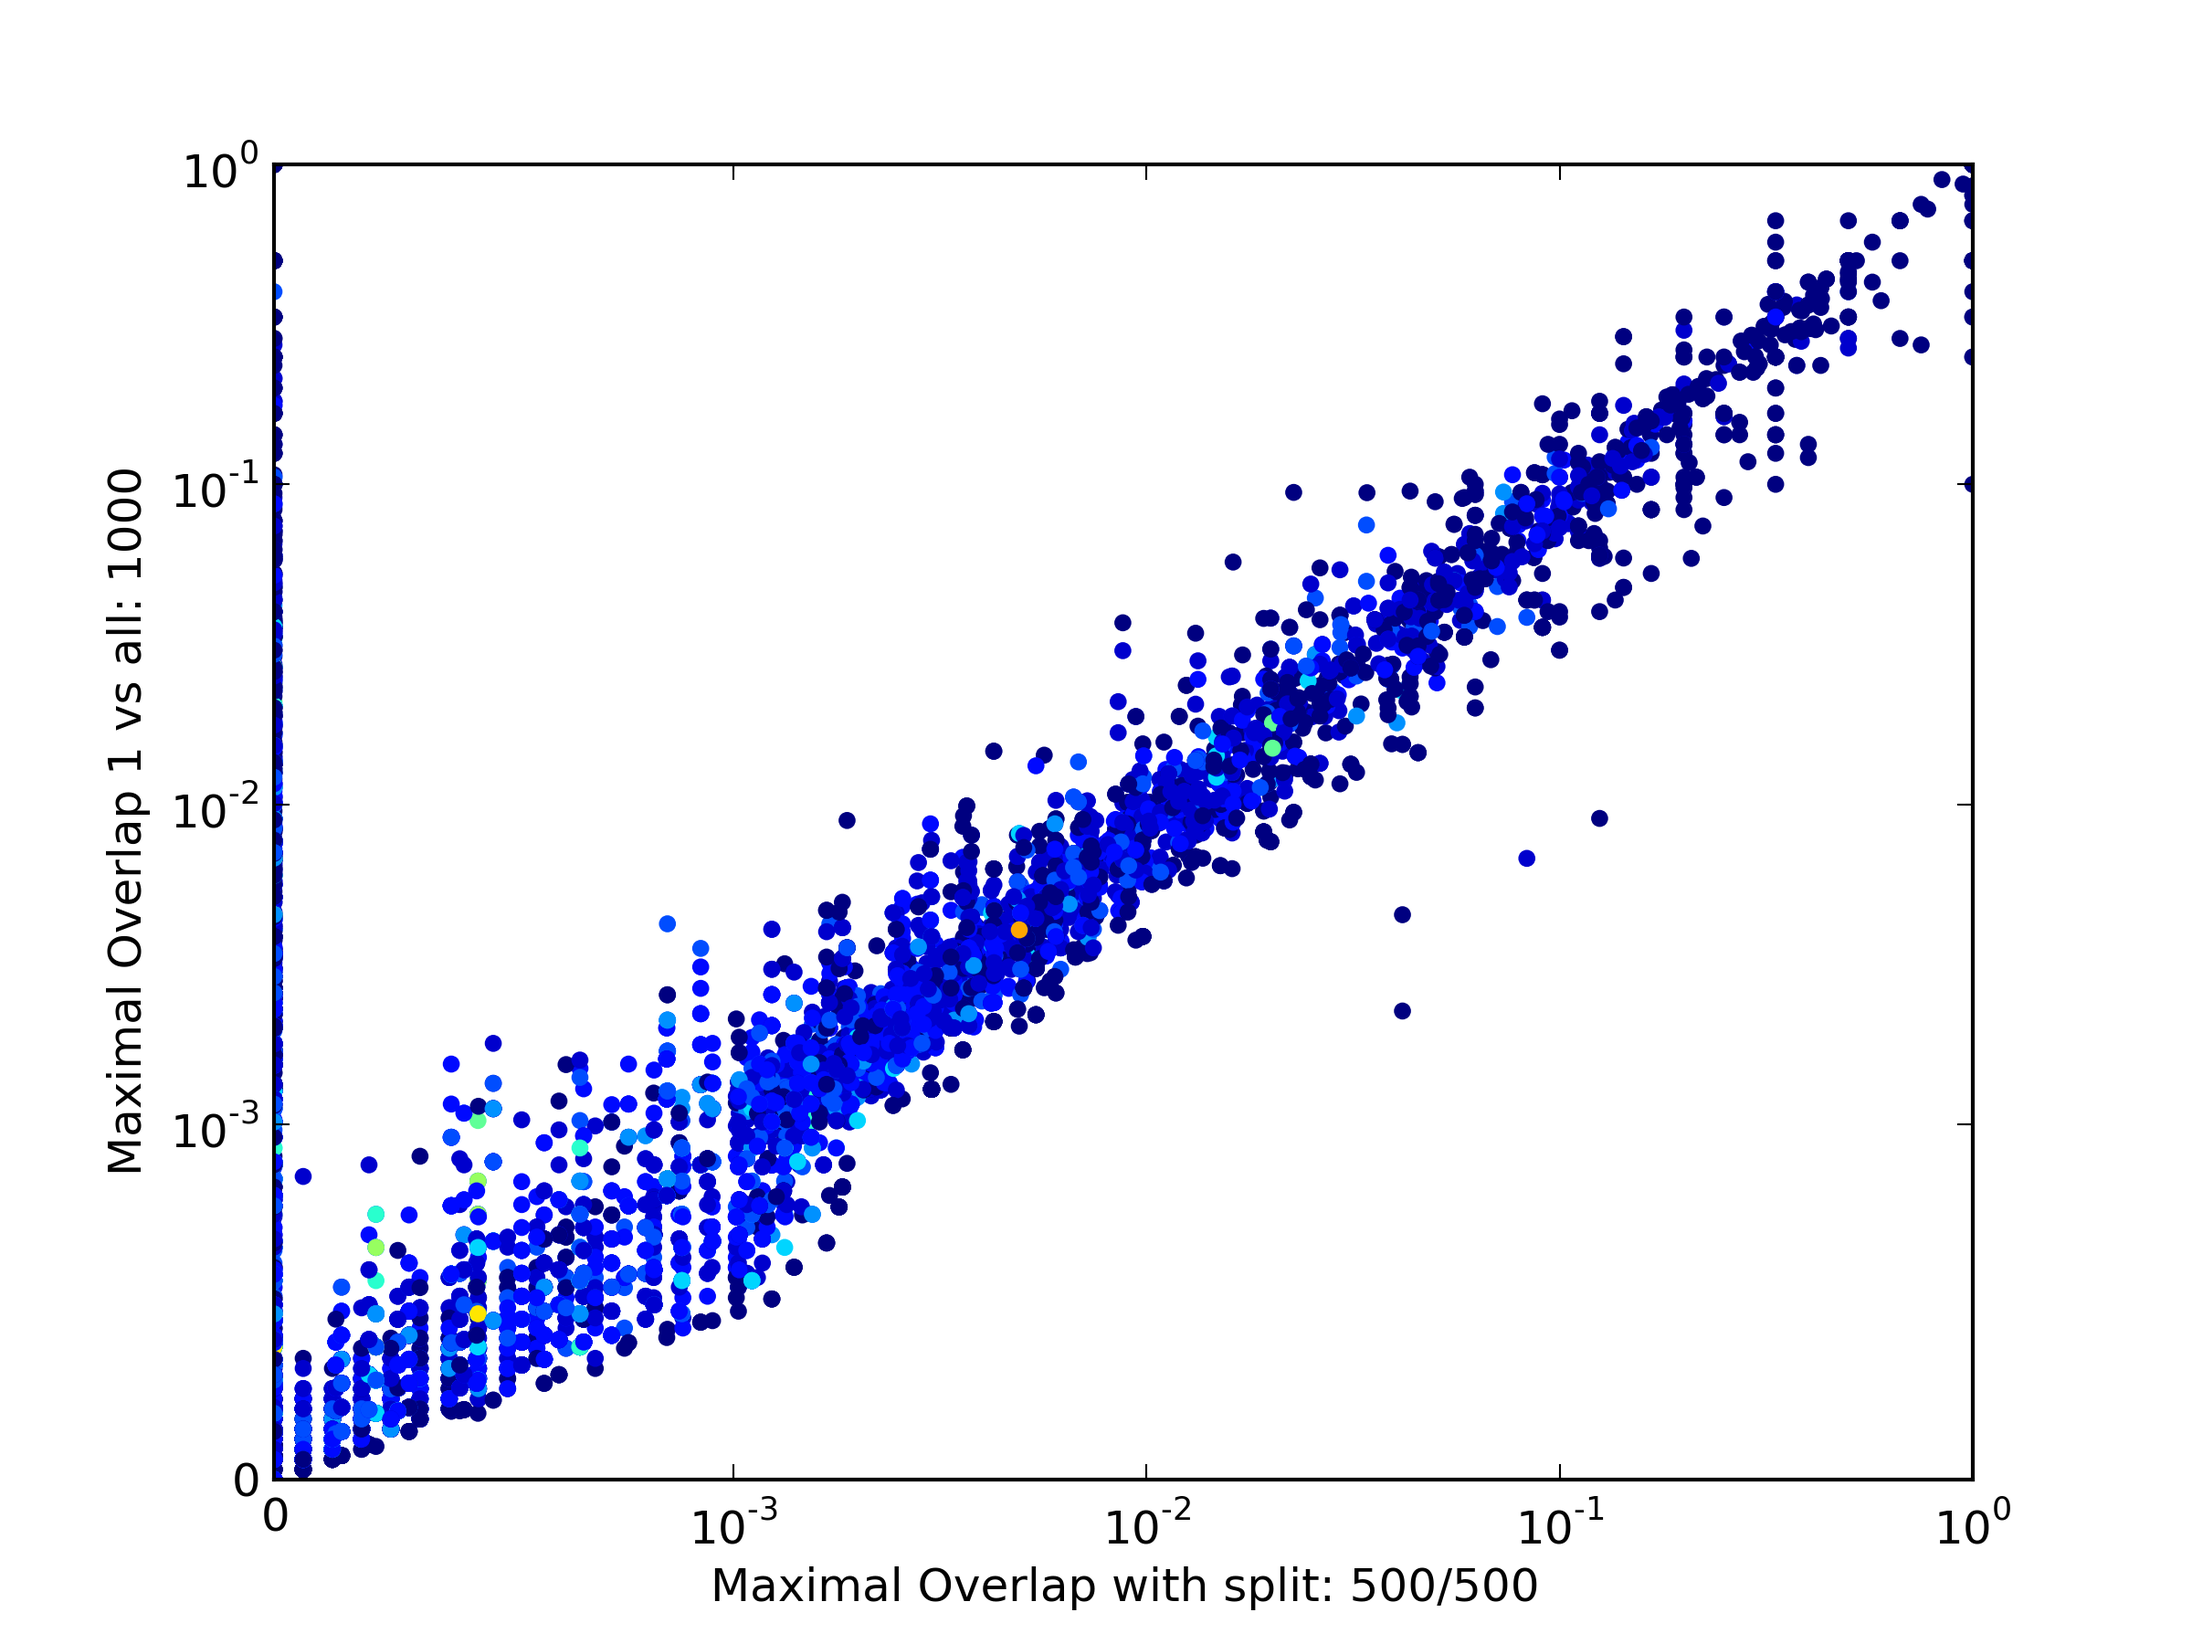
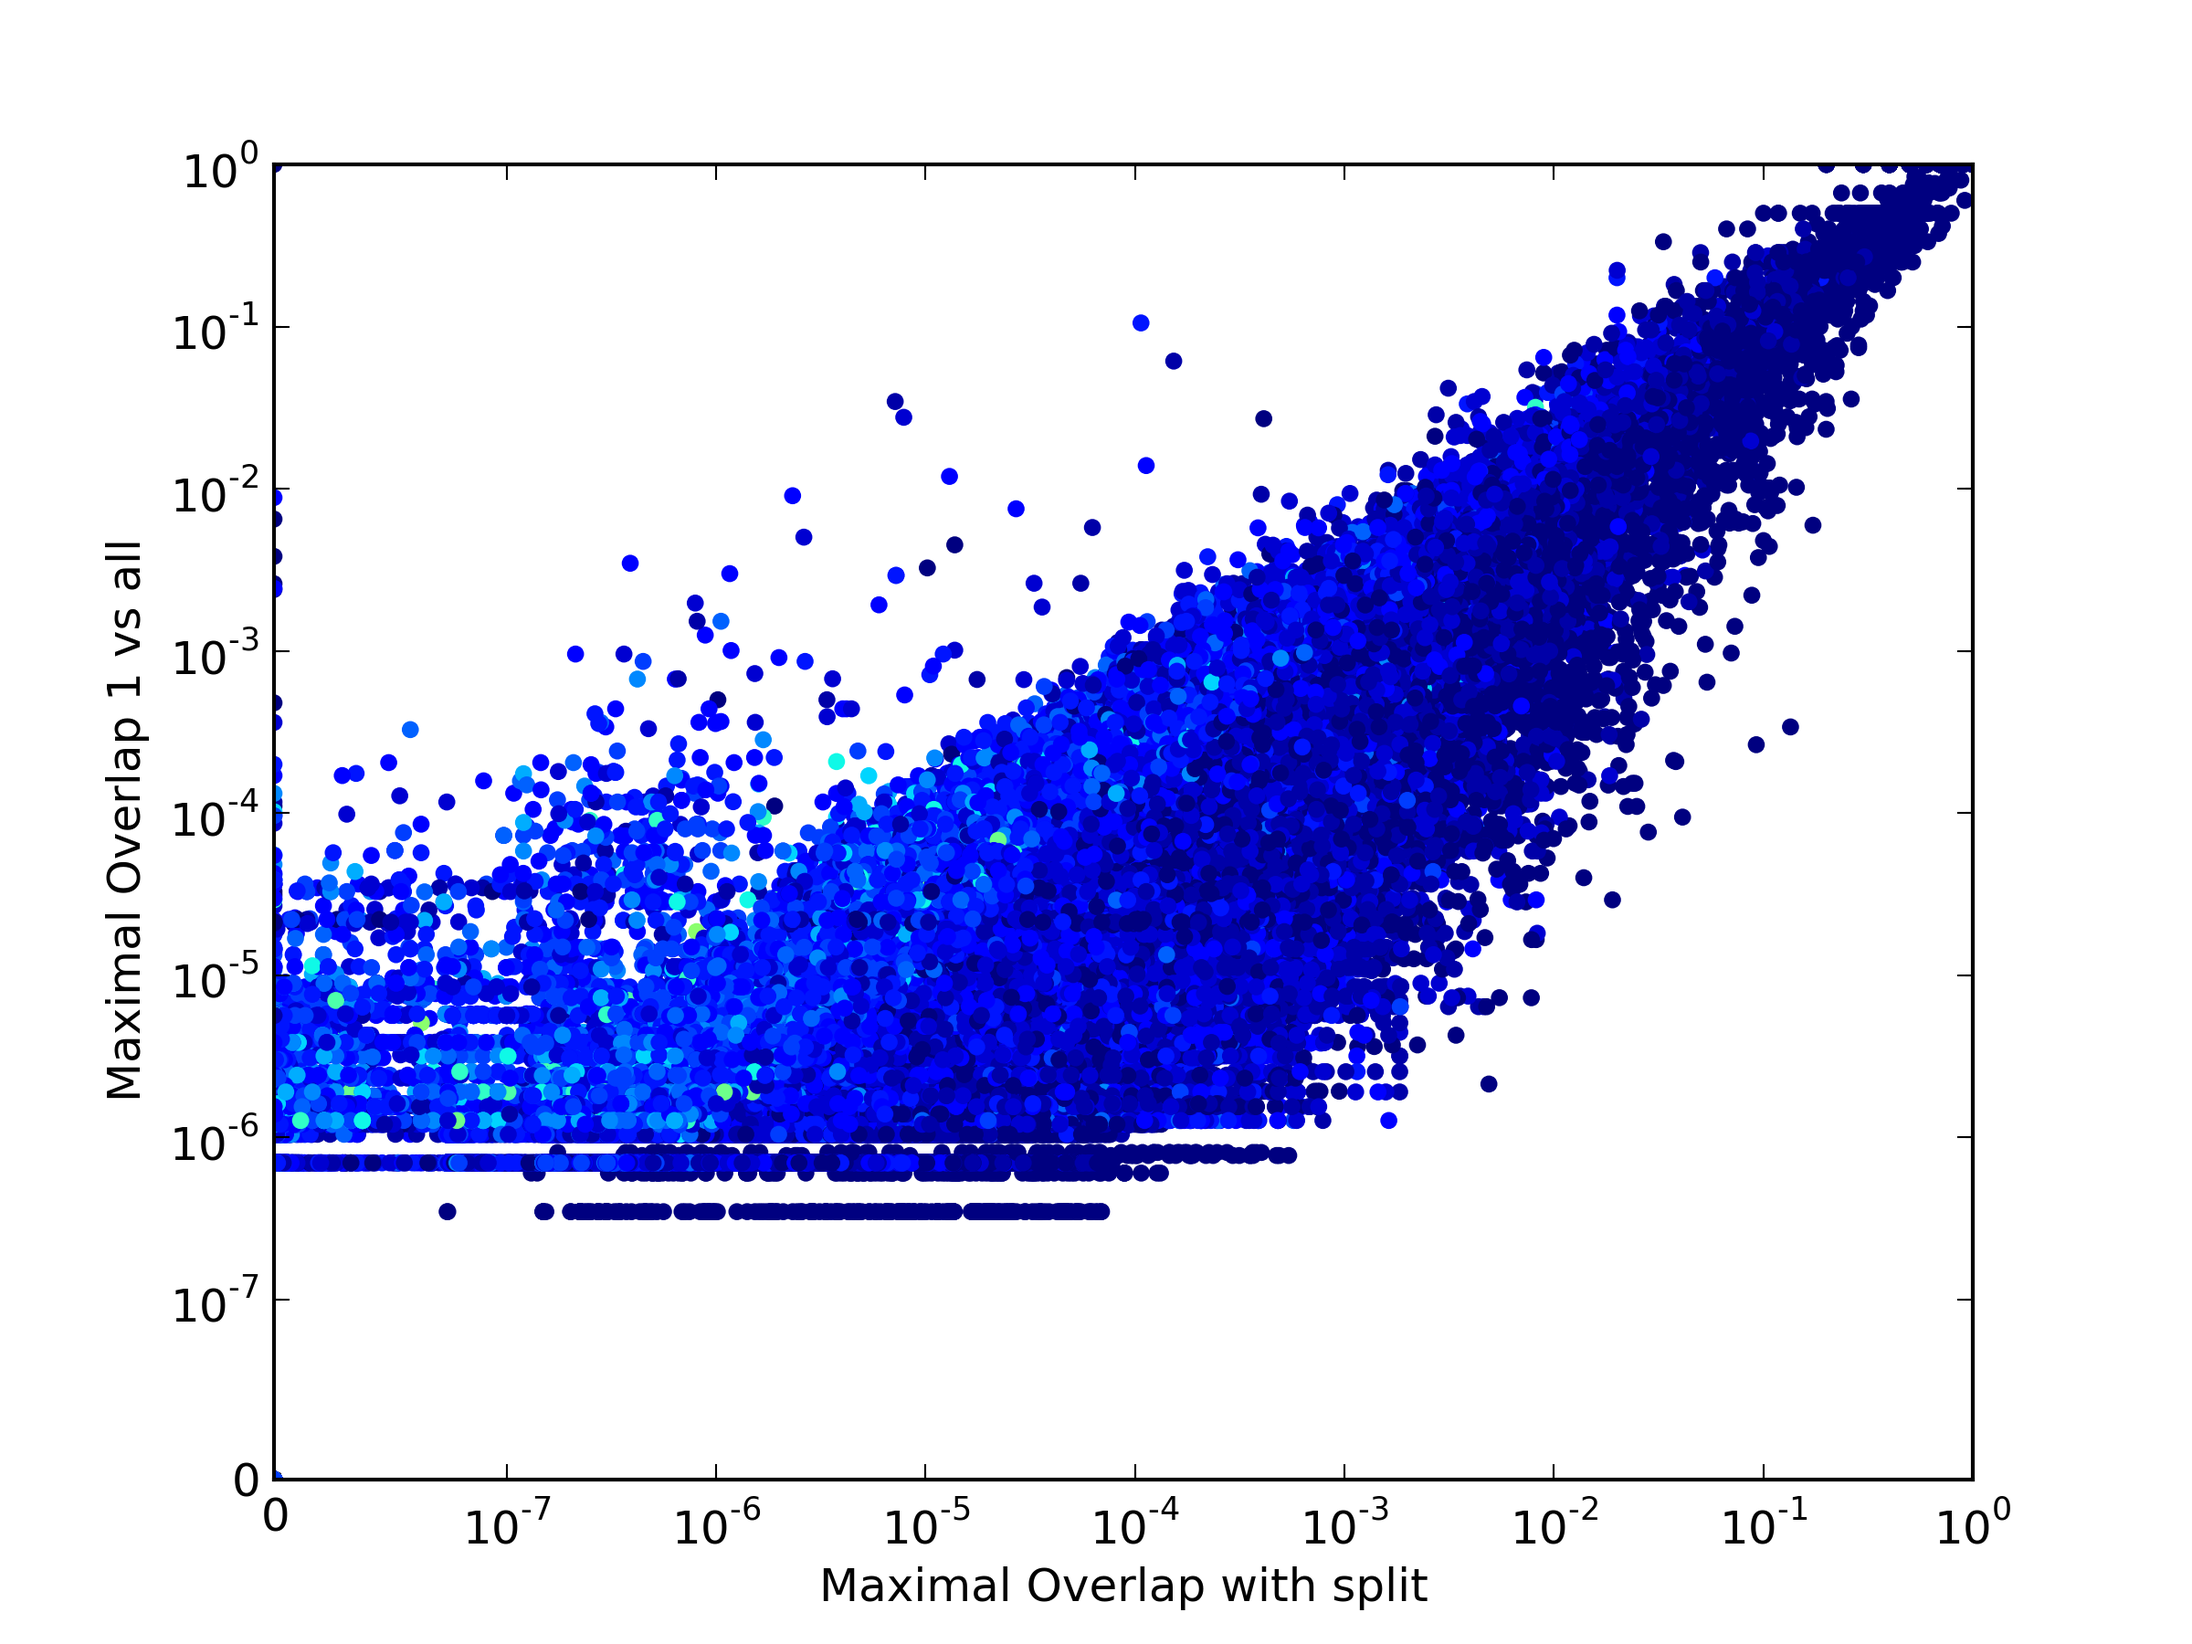
PCFG werkend, wat plots

diff --git a/data/processFragments.py b/data/processFragments.py
@@ -42,7 +42,15 @@ def readFragments(fragsFile, N):
     nFrags = 0
     for line in f:
         nFrags += 1
-        [flatFragment,weight] = line.split("\t")
+        #[flatFragment,weight] = line.split("\t")
+
+        parts = line.split("\t")
+        if len(parts)<2:
+           print "problem with line:",line
+           continue
+        
+        flatFragment = parts[0]
+        weight = parts[1]
 
         flatFragment = flatFragment.translate(None, '@')
 
@@ -64,7 +72,6 @@ def readPCFG(ruleFile, lexFile, N):
     global fragments
     rootCounts = defaultdict(int)
     frags = set()
-    print     type(set)
 
     f = open(lexFile, 'r')
     for line in f:
@@ -82,30 +89,37 @@ def readPCFG(ruleFile, lexFile, N):
         if flat not in fragments:
             fragments[flat] = Fragment(flat)
         fragments[flat].addRun(N,float(count)/float(rootCounts[root]))
+    print 'read from:',ruleFile,lexFile, 'number of PCFG rules:'+len(frags)
 
 
 def lex2Frags(line, frags, rootCounts):
+    line = line.strip()
     bitParLine = line.split("\t")
     terminal = bitParLine[0]
     pairs = [p.split(' ') for p in bitParLine[1:]]
     # Loop over possibilities
     for p in pairs:
-        count = float(p[1])
+        count = int(p[1])
         root = p[0]
         rootCounts[root]+= count
         flatFragment ='('+root+' '+terminal+')'
-        frags= frags.add((root, flatFragment, count))
-    return frags,rootCounts
+        frags.add((root, flatFragment, count))
+    return frags, rootCounts
 
 def rule2Frag(line, frags, rootCounts):
+    line = line.strip()
     bitParLine = line.split("\t")
-    count = bitParLine[0]
+    count = int(bitParLine[0])
     root = bitParLine[1]
-#    if root not in rootCounts:
     rootCounts[root] += count
+    children = ''
+#    for child in bitParLine[2:]:
+#        children+=' ('+child+')'
+#    flatFragment = '('+root+children+')'
+
     children = ['(%s )'%s for s in bitParLine[2:]]
-    flatFragment = '('+root+ ' '.join(children)
-    frags = frags.add(root,flatFragment,count)
+    flatFragment = '('+root+ ' '.join(children)+')'
+    frags.add((root,flatFragment,count))
     return frags,rootCounts
 
 
@@ -172,8 +186,9 @@ def processDOPS():
 
     PCFG = INTERPOLATED+1
 #    f = "wsj/wsj_pseudoPCFG_1000.txt"
-    readFragments(prefix+'1.mo.txt',PCFG)
+#    readFragments(prefix+'1.mo.txt',PCFG)
     #!! TODO
+    readPCFG('wsj/wsj1000.pcfg.rules', 'wsj/wsj1000.pcfg.lex',PCFG)
 
     DOPS = PCFG+1
     smoothUnkn(INTERPOLATED,PCFG,DOPS,pUnkn)
@@ -245,14 +260,9 @@ def processFrags():
     global prefix
     prefix = 'bigRun/wsj-02-21.mrg.split19916.'
 #    print computePunkn(19916)
-    #processDOPS()
+    processDOPS()
 #    processDDOPS()
 
-    global fragments
-    fragments = dict()
-    global globalRuns
-    globalRuns = 1
-    readPCFG('wsj/wsj1000.pcfg.rules', 'wsj/wsj1000.pcfg.lex',0)
 
 
 

diff --git a/data/plotting2.py b/data/plotting2.py
@@ -23,9 +23,9 @@ def plotTwo(N, NDescription, M, MDescription, log, fromDepth):
     fig = plt.figure()
 
     if log:
-        plt.xscale('symlog',linthreshx=0.001)#, nonposx='clip')
+        plt.xscale('symlog',linthreshx=0.0000001)#, nonposx='clip')
         plt.xlim([0,1])
-        plt.yscale('symlog',linthreshy=0.001)#, nonposx='clip')
+        plt.yscale('symlog',linthreshy=0.0000001)#, nonposx='clip')
         plt.ylim([0,1])
 
     else:
@@ -111,7 +111,7 @@ import processFragments as pf
 
 def main():
     global plotn
-    plotn = 5
+    plotn = 0
     pf.globalRuns = 3
     global fragments
     fragments = pf.fragments
@@ -127,6 +127,9 @@ def main():
     f2 = "resultingGrammars/ddop.txt"
     pf.readFragments(f2,2)
     d2 = "Maximal Overlap 1 vs all"
+
+    plotTwo(0,d0,1,d1,1,1)
+    plotTwo(0,d0,2,d2,1,1)
 
     plotTwo(0,d0,1,d1,1,3)
     plotTwo(0,d0,2,d2,1,3)
